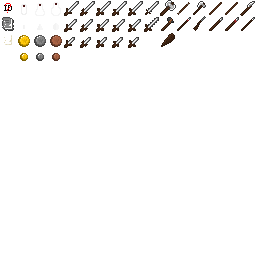
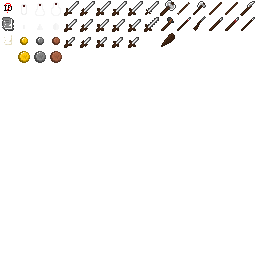
added the purse to the inventory: now money does not occupy any slot in the backpack

Changed region(s): [[0.0625, 0.125, 0.25, 0.25]]

diff --git a/src/program/program_Settings.cpp b/src/program/program_Settings.cpp
@@ -6,6 +6,7 @@
 
 #include "program.hpp"
 #include "funcs/files.hpp"
+#include "funcs/keys.hpp"
 
 #include <iostream>
 #include <iomanip>
@@ -17,36 +18,36 @@ namespace rr {
     void Settings::print() {
         std::cout << "+========PARAMETER========|===========VALUE===========+\n";
         std::cout << "+-------------------Game settings---------------------+\n";
-        std::cout << "|lang                     |" << game.language                        << std::setw(29-game.language.size())                                    << "|\n";
+        std::cout << "|lang                     |" << game.language                                   << std::setw(29-game.language                                       .size()) << "|\n";
         std::cout << "+-----------------Graphical settings------------------+\n";
-        std::cout << "|width                    |" << graphics.resolution.x                << std::setw(29-std::to_string(graphics.resolution.x)               .size()) << "|\n";
-        std::cout << "|height                   |" << graphics.resolution.y                << std::setw(29-std::to_string(graphics.resolution.y)               .size()) << "|\n";
-        std::cout << "|fullscreen               |" << graphics.fullscreen                  << std::setw(29-std::to_string(graphics.fullscreen)                 .size()) << "|\n";
-        std::cout << "|vsync                    |" << graphics.vsync                       << std::setw(29-std::to_string(graphics.vsync)                      .size()) << "|\n";
-        std::cout << "|antialiasing             |" << graphics.csettings.antialiasingLevel << std::setw(29-std::to_string(graphics.csettings.antialiasingLevel).size()) << "|\n";
-        std::cout << "|depth_bits               |" << graphics.csettings.depthBits         << std::setw(29-std::to_string(graphics.csettings.depthBits)        .size()) << "|\n";
-        std::cout << "|stencil_bits             |" << graphics.csettings.stencilBits       << std::setw(29-std::to_string(graphics.csettings.stencilBits)      .size()) << "|\n";
+        std::cout << "|width                    |" << graphics.resolution.x                           << std::setw(29-std::to_string(graphics.resolution.x)               .size()) << "|\n";
+        std::cout << "|height                   |" << graphics.resolution.y                           << std::setw(29-std::to_string(graphics.resolution.y)               .size()) << "|\n";
+        std::cout << "|fullscreen               |" << graphics.fullscreen                             << std::setw(29-std::to_string(graphics.fullscreen)                 .size()) << "|\n";
+        std::cout << "|vsync                    |" << graphics.vsync                                  << std::setw(29-std::to_string(graphics.vsync)                      .size()) << "|\n";
+        std::cout << "|antialiasing             |" << graphics.csettings.antialiasingLevel            << std::setw(29-std::to_string(graphics.csettings.antialiasingLevel).size()) << "|\n";
+        std::cout << "|depth_bits               |" << graphics.csettings.depthBits                    << std::setw(29-std::to_string(graphics.csettings.depthBits)        .size()) << "|\n";
+        std::cout << "|stencil_bits             |" << graphics.csettings.stencilBits                  << std::setw(29-std::to_string(graphics.csettings.stencilBits)      .size()) << "|\n";
         std::cout << "+-----------------------Audio-------------------------+\n";
-        std::cout << "|music_volume             |" << sound.music_volume                   << std::setw(29-std::to_string((int)sound.music_volume)             .size()) << "|\n";
-        std::cout << "|effects_volume           |" << sound.effects_volume                 << std::setw(29-std::to_string((int)sound.effects_volume)           .size()) << "|\n";
-        std::cout << "|music_muted              |" << sound.music_muted                    << std::setw(29-std::to_string(sound.music_muted)                   .size()) << "|\n";
-        std::cout << "|effects_muted            |" << sound.effects_muted                  << std::setw(29-std::to_string(sound.effects_muted)                 .size()) << "|\n";
+        std::cout << "|music_volume             |" << sound.music_volume                              << std::setw(29-std::to_string((int)sound.music_volume)             .size()) << "|\n";
+        std::cout << "|effects_volume           |" << sound.effects_volume                            << std::setw(29-std::to_string((int)sound.effects_volume)           .size()) << "|\n";
+        std::cout << "|music_muted              |" << sound.music_muted                               << std::setw(29-std::to_string(sound.music_muted)                   .size()) << "|\n";
+        std::cout << "|effects_muted            |" << sound.effects_muted                             << std::setw(29-std::to_string(sound.effects_muted)                 .size()) << "|\n";
         std::cout << "+----------------------Controls-----------------------+\n";
-        std::cout << "|move_up                  |" << keys.move_up                         << std::setw(29-std::to_string(keys.move_up)                        .size()) << "|\n";
-        std::cout << "|move_down                |" << keys.move_down                       << std::setw(29-std::to_string(keys.move_down)                      .size()) << "|\n";
-        std::cout << "|move_left                |" << keys.move_left                       << std::setw(29-std::to_string(keys.move_left)                      .size()) << "|\n";
-        std::cout << "|move_right               |" << keys.move_right                      << std::setw(29-std::to_string(keys.move_right)                     .size()) << "|\n";
-        std::cout << "|interact                 |" << keys.interact                        << std::setw(29-std::to_string(keys.interact)                       .size()) << "|\n";
-        std::cout << "|attack                   |" << keys.attack                          << std::setw(29-std::to_string(keys.attack)                         .size()) << "|\n";
-        std::cout << "|open_inventory           |" << keys.open_inventory                  << std::setw(29-std::to_string(keys.open_inventory)                 .size()) << "|\n";
-        std::cout << "|open_attributes          |" << keys.open_attributes                 << std::setw(29-std::to_string(keys.open_attributes)                .size()) << "|\n";
-        std::cout << "|open_quests              |" << keys.open_quests                     << std::setw(29-std::to_string(keys.open_quests)                    .size()) << "|\n";
-        std::cout << "|open_map                 |" << keys.open_map                        << std::setw(29-std::to_string(keys.open_map)                       .size()) << "|\n";
-        std::cout << "|useslot_1                |" << keys.useslot_1                       << std::setw(29-std::to_string(keys.useslot_1)                      .size()) << "|\n";
-        std::cout << "|useslot_2                |" << keys.useslot_2                       << std::setw(29-std::to_string(keys.useslot_2)                      .size()) << "|\n";
-        std::cout << "|useslot_3                |" << keys.useslot_3                       << std::setw(29-std::to_string(keys.useslot_3)                      .size()) << "|\n";
-        std::cout << "|useslot_4                |" << keys.useslot_4                       << std::setw(29-std::to_string(keys.useslot_4)                      .size()) << "|\n";
-        std::cout << "|useslot_5                |" << keys.useslot_5                       << std::setw(29-std::to_string(keys.useslot_5)                      .size()) << "|\n";
+        std::cout << "|move_up                  |" << getKeyName(keys.move_up)        .toAnsiString() << std::setw(29-getKeyName(keys.move_up)        .toAnsiString()     .size()) << "|\n";
+        std::cout << "|move_down                |" << getKeyName(keys.move_down)      .toAnsiString() << std::setw(29-getKeyName(keys.move_down)      .toAnsiString()     .size()) << "|\n";
+        std::cout << "|move_left                |" << getKeyName(keys.move_left)      .toAnsiString() << std::setw(29-getKeyName(keys.move_left)      .toAnsiString()     .size()) << "|\n";
+        std::cout << "|move_right               |" << getKeyName(keys.move_right)     .toAnsiString() << std::setw(29-getKeyName(keys.move_right)     .toAnsiString()     .size()) << "|\n";
+        std::cout << "|interact                 |" << getKeyName(keys.interact)       .toAnsiString() << std::setw(29-getKeyName(keys.interact)       .toAnsiString()     .size()) << "|\n";
+        std::cout << "|attack                   |" << getKeyName(keys.attack)         .toAnsiString() << std::setw(29-getKeyName(keys.attack)         .toAnsiString()     .size()) << "|\n";
+        std::cout << "|open_inventory           |" << getKeyName(keys.open_inventory) .toAnsiString() << std::setw(29-getKeyName(keys.open_inventory) .toAnsiString()     .size()) << "|\n";
+        std::cout << "|open_attributes          |" << getKeyName(keys.open_attributes).toAnsiString() << std::setw(29-getKeyName(keys.open_attributes).toAnsiString()     .size()) << "|\n";
+        std::cout << "|open_quests              |" << getKeyName(keys.open_quests)    .toAnsiString() << std::setw(29-getKeyName(keys.open_quests)    .toAnsiString()     .size()) << "|\n";
+        std::cout << "|open_map                 |" << getKeyName(keys.open_map)       .toAnsiString() << std::setw(29-getKeyName(keys.open_map)       .toAnsiString()     .size()) << "|\n";
+        std::cout << "|useslot_1                |" << getKeyName(keys.useslot_1)      .toAnsiString() << std::setw(29-getKeyName(keys.useslot_1)      .toAnsiString()     .size()) << "|\n";
+        std::cout << "|useslot_2                |" << getKeyName(keys.useslot_2)      .toAnsiString() << std::setw(29-getKeyName(keys.useslot_2)      .toAnsiString()     .size()) << "|\n";
+        std::cout << "|useslot_3                |" << getKeyName(keys.useslot_3)      .toAnsiString() << std::setw(29-getKeyName(keys.useslot_3)      .toAnsiString()     .size()) << "|\n";
+        std::cout << "|useslot_4                |" << getKeyName(keys.useslot_4)      .toAnsiString() << std::setw(29-getKeyName(keys.useslot_4)      .toAnsiString()     .size()) << "|\n";
+        std::cout << "|useslot_5                |" << getKeyName(keys.useslot_5)      .toAnsiString() << std::setw(29-getKeyName(keys.useslot_5)      .toAnsiString()     .size()) << "|\n";
         std::cout << "+-----------------------------------------------------+\n";
     }
 

diff --git a/src/program/game/menus/menus_Inventory.cpp b/src/program/game/menus/menus_Inventory.cpp
@@ -13,6 +13,10 @@ extern rr::Resources resources;
 namespace rr {
 
     Inventory::Inventory() {
+        bronze_ = 0;
+        silver_ = 0;
+        gold_   = 0;
+
         shadow_.setSize((sf::Vector2f)settings.graphics.resolution);
         shadow_.setPosition(sf::Vector2f(0, 0));
         shadow_.setFillColor(sf::Color(0, 0, 0, 172));
@@ -25,6 +29,12 @@ namespace rr {
                     *wInve_ += new Slot(sf::Vector2f(80, 80), sf::Vector2f(10+j*95, 30+i*95));
                 }
             }
+            *wInve_ += new Image (sf::Vector2f(0  , 390), resources.texture.items, 16, 33);
+            *wInve_ += new Image (sf::Vector2f(150, 390), resources.texture.items, 16, 34);
+            *wInve_ += new Image (sf::Vector2f(300, 390), resources.texture.items, 16, 35);
+            *wInve_ += new Text  (sf::Vector2f(70 , 415), "GOLD", resources.font.Pixel, 30);
+            *wInve_ += new Text  (sf::Vector2f(220, 415), "SILV", resources.font.Pixel, 30);
+            *wInve_ += new Text  (sf::Vector2f(370, 415), "BRON", resources.font.Pixel, 30);
             *wInve_ += new Button(sf::Vector2f(0, 0), resources.dictionary["gui.button.quit"], 30);
             component(wInve_, Button, 0)->setPosition(sf::Vector2f(wInve_->getPosition().x+wInve_->getSize().x-component(wInve_, Button, 0)->getSize().x-15, settings.graphics.resolution.y/2+235-component(wInve_, Button, 0)->getSize().y-5));
         wInve_->setVisible(false);
@@ -38,6 +48,10 @@ namespace rr {
     }
 
     void Inventory::open() {
+        wInve_->getComponent<Text>(0)->setString(std::to_string((int)gold_));
+        wInve_->getComponent<Text>(1)->setString(std::to_string((int)silver_));
+        wInve_->getComponent<Text>(2)->setString(std::to_string((int)bronze_));
+
         wInve_->setVisible(true);
     }
 
@@ -76,7 +90,41 @@ namespace rr {
 
 #define slot(i) wInve_->getComponent<Slot>(i)
 
-     // first we check if any of the slots already contains the item we want to add
+     // in the beginning we check if the picked item is a coin
+        if (instanceof<Coin, Item>(item)) {
+         // first we recognize the coin type and size
+            if (((Coin*)item)->type_ == Coin::BRONZE) {
+                if (((Coin*)item)->size_ == Coin::BIG)
+                    bronze_ += item->getAmount()*10;
+                else
+                    bronze_ += item->getAmount();
+            }
+            else if (((Coin*)item)->type_ == Coin::SILVER) {
+                if (((Coin*)item)->size_ == Coin::BIG)
+                    silver_ += item->getAmount()*10;
+                else
+                    silver_ += item->getAmount();
+            }
+            else if (((Coin*)item)->type_ == Coin::GOLDEN) {
+                if (((Coin*)item)->size_ == Coin::BIG)
+                    gold_ += item->getAmount()*10;
+                else
+                    gold_ += item->getAmount();
+            }
+         // then we do the simple calculations: 1 gold = 100 silver, 1 silver = 100 bronze
+            while (bronze_ >= 100) {
+                bronze_ -= 100;
+                silver_++;
+            }
+            while (silver_ >= 100) {
+                silver_ -= 100;
+                gold_++;
+            }
+         // and in the end we can just
+            return true;
+        }
+
+     // then we check if any of the slots already contains the item we want to add
         for (int it=0; it<32; it++) {
             if (!slot(it)->isEmpty() && slot(it)->getItem()->getID() == item->getID()) {
                 return slot(it)->addItem(item->getID(), item->getAmount());

diff --git a/src/program/game/menus/menus_Attributes.cpp b/src/program/game/menus/menus_Attributes.cpp
@@ -61,11 +61,14 @@ namespace rr {
                                              +std::to_string((int)p->getAttributes().level      )                                                      +"\n"
                                              +std::to_string((int)p->getAttributes().skillPoints));
 
-        component(wAttr_, Text, 2)->setString((p->getAttributes().crafting              ? resources.dictionary["player.skills.crafting"]               : sf::String("-"))
-                                       +"\n"+(p->getAttributes().alchemy                ? resources.dictionary["player.skills.alchemy"]                : sf::String("-"))
-                                       +"\n"+(p->getAttributes().cold_weapon_mastery    ? resources.dictionary["player.skills.cold_weapon_mastery"]    : sf::String("-"))
-                                       +"\n"+(p->getAttributes().ranged_weapon_mastery  ? resources.dictionary["player.skills.ranged_weapon_mastery"]  : sf::String("-"))
-                                       +"\n"+(p->getAttributes().better_sight           ? resources.dictionary["player.skills.better_sight"]           : sf::String("-")));
+        component(wAttr_, Text, 2)->setString((p->getAttributes().crafting               ? resources.dictionary["player.skills.crafting"             ] : sf::String("-"))
+                                        +"\n"+(p->getAttributes().alchemy                ? resources.dictionary["player.skills.alchemy"              ] : sf::String("-"))
+                                        +"\n"+(p->getAttributes().cold_weapon_mastery    ? resources.dictionary["player.skills.cold_weapon_mastery"  ] : sf::String("-"))
+                                        +"\n"+(p->getAttributes().ranged_weapon_mastery  ? resources.dictionary["player.skills.ranged_weapon_mastery"] : sf::String("-"))
+                                        +"\n"+(p->getAttributes().eagle_eye              ? resources.dictionary["player.skills.better_sight"         ] : sf::String("-"))
+                                        +"\n"+(p->getAttributes().mana_regeneration      ? resources.dictionary["player.skills.mana_regen"           ] : sf::String("-"))
+                                        +"\n"+(p->getAttributes().health_regeneration    ? resources.dictionary["player.skills.health_regen"         ] : sf::String("-"))
+                                        +"\n"+(p->getAttributes().faster_learning        ? resources.dictionary["player.skills.faster_learn"         ] : sf::String("-")));
 
 #undef component
 

diff --git a/src/program/game/entities/player/player_Player.cpp b/src/program/game/entities/player/player_Player.cpp
@@ -42,7 +42,10 @@ namespace rr {
         attrs_.alchemy               = false;
         attrs_.cold_weapon_mastery   = false;
         attrs_.ranged_weapon_mastery = false;
-        attrs_.better_sight          = false;
+        attrs_.eagle_eye             = false;
+        attrs_.mana_regeneration     = false;
+        attrs_.health_regeneration   = false;
+        attrs_.faster_learning       = false;
 
         moving_ = false;
     }
@@ -114,18 +117,19 @@ namespace rr {
         if (attrs_.health <= 0)                attrs_.health = 0;
         if (attrs_.mana   <= 0)                attrs_.mana   = 0;
         if (attrs_.mana   >= attrs_.maxMana)   attrs_.mana   = attrs_.maxMana;
-        if (attrs_.experience >= attrs_.nextLevel) {
-            attrs_.experience  = 0;
-            attrs_.nextLevel  *= 1.25f;
-            attrs_.level      ++;
+        if (attrs_.experience  >= attrs_.nextLevel) {
+            attrs_.experience   = 0;
+            attrs_.nextLevel   *= 1.25f;
+            attrs_.level       ++;
+            attrs_.skillPoints += (attrs_.faster_learning) ? 15 : 10;
 
-            float temp         = attrs_.health/attrs_.maxHealth;
-            attrs_.maxHealth  += 10;
-            attrs_.health      = temp*attrs_.maxHealth;
+            float temp          = attrs_.health/attrs_.maxHealth;
+            attrs_.maxHealth   += 10;
+            attrs_.health       = temp*attrs_.maxHealth;
 
-            temp               = attrs_.mana/attrs_.maxMana;
-            attrs_.maxMana    += 1;
-            attrs_.mana        = temp*attrs_.maxMana;
+            temp                = attrs_.mana/attrs_.maxMana;
+            attrs_.maxMana     += 1;
+            attrs_.mana         = temp*attrs_.maxMana;
         }
         body_.play(*currentAnimation_);
     }

diff --git a/src/program/funcs/items.hpp b/src/program/funcs/items.hpp
@@ -25,9 +25,15 @@ namespace rr {
         case   6: return new Coin  (Coin::BRONZE                , Coin::BIG           , amount, sf::Vector2i(0, 0));
 
         /* BOOKS */
-        case  10: return new Book  (Book::MANA_REGEN                                  , amount, sf::Vector2i(0, 0));
-        case  11: return new Book  (Book::FASTER_LEARNING                             , amount, sf::Vector2i(0, 0));
-        case  12: return new Book  (Book::SPELLS_LEARNING                             , amount, sf::Vector2i(0, 0));
+        case  10: return new Book  (Book::CRAFTING                                    , amount, sf::Vector2i(0, 0));
+        case  11: return new Book  (Book::ALCHEMY                                     , amount, sf::Vector2i(0, 0));
+        case  12: return new Book  (Book::COLD_WEAPON_MASTERY                         , amount, sf::Vector2i(0, 0));
+        case  13: return new Book  (Book::RANGED_WEAPON_MASTER                        , amount, sf::Vector2i(0, 0));
+        case  14: return new Book  (Book::EAGLE_EYE                                   , amount, sf::Vector2i(0, 0));
+        case  15: return new Book  (Book::MANA_REGEN                                  , amount, sf::Vector2i(0, 0));
+        case  16: return new Book  (Book::HEALTH_REGEN                                , amount, sf::Vector2i(0, 0));
+        case  17: return new Book  (Book::FASTER_LEARNING                             , amount, sf::Vector2i(0, 0));
+        case  18: return new Book  (Book::SPELLS_BOOK                                 , amount, sf::Vector2i(0, 0));
 
         /* POTIONS */
         case 100: return new Potion(Potion::Effect::HEALING     , Potion::Size::SMALL , amount, sf::Vector2i(0, 0));

diff --git a/src/program/gui/gui_Slot.cpp b/src/program/gui/gui_Slot.cpp
@@ -23,7 +23,7 @@ namespace rr {
         body_.setOutlineThickness(5);
 
         image_    = new Image(pos, resources.texture.gui, 14, icon);
-        text_     = new Text (sf::Vector2f(pos.x+5, pos.y+55), "", resources.font.Pixel, 202);
+        text_     = new Text (sf::Vector2f(pos.x+5, pos.y+55), "", resources.font.Pixel, 20);
 
         image_   ->setParentComponent(this);
         text_    ->setParentComponent(this);
@@ -58,7 +58,6 @@ namespace rr {
             if (id == item_->getID()) {
                 item_->setAmount(item_->getAmount()+amount);
                 text_->setString(std::to_wstring(item_->getAmount()));
-                text_->setCharacterSize(20);
                 return true;
             }
             return false;
@@ -66,7 +65,6 @@ namespace rr {
         item_ = getItemFromID(id, amount);
         item_->setRealPosition(body_.getPosition());
         text_->setString(std::to_string(item_->getAmount()));
-        text_->setCharacterSize(20);
 
         hollow_ = false;
         return true;

diff --git a/src/program/game/menus/menus_MainMenu.cpp b/src/program/game/menus/menus_MainMenu.cpp
@@ -171,7 +171,7 @@ namespace rr {
                     component(wCont, Button, 15)->setPosition(sf::Vector2f(wCont->getPosition().x+wCont->getSize().x/2-component(wCont, Button, 15)->getSize().x/2,
                                                                            wCont->getPosition().y+wCont->getSize().y  -component(wCont, Button, 15)->getSize().y-10));
 
-                    wCont->addComponent(new Window("", sf::Vector2f(310, 50), (sf::Vector2f)(settings.graphics.resolution/2u-sf::Vector2u(155, 430)), sf::Color::Red), false);
+                    wCont->addComponent(new Window("", sf::Vector2f(310, 50), (sf::Vector2f)(settings.graphics.resolution/2u+sf::Vector2u(-155, 290)), sf::Color::Red), false);
 
 #define wWait component(wCont, Window, 0)
 

diff --git a/src/program/game/level_Level.cpp b/src/program/game/level_Level.cpp
@@ -469,8 +469,8 @@ namespace rr {
             while (true) {
                 int x=rand()%size_.x, y=rand()%size_.y;
                 if (tiles_[x][y] == ROOM && tiles_[x][y] != OCCUPIED) {
-                    // here we choose randomly the type of a coin
-                    addEntity(getItemFromID(rand()%3+10, 1), sf::Vector2i(x, y));
+                    // here we choose randomly the type of a book
+                    addEntity(getItemFromID(rand()%9+10, 1), sf::Vector2i(x, y));
                     tiles_[x][y] = OCCUPIED;
                     break;
                 }

diff --git a/src/program/game/entities/item/item_Book.hpp b/src/program/game/entities/item/item_Book.hpp
@@ -14,9 +14,15 @@ namespace rr {
     class Book : public Discoverable, public Item {
     public:
         enum Type {
+            CRAFTING,
+            ALCHEMY,
+            COLD_WEAPON_MASTERY,
+            RANGED_WEAPON_MASTER,
+            EAGLE_EYE,
             MANA_REGEN,
+            HEALTH_REGEN,
             FASTER_LEARNING,
-            SPELLS_LEARNING
+            SPELLS_BOOK
         } type_;
          Book(Type, int am, sf::Vector2i pos);
         ~Book();

diff --git a/src/program/game/entities/player/player.hpp b/src/program/game/entities/player/player.hpp
@@ -37,7 +37,10 @@ namespace rr {
             bool  alchemy;
             bool  cold_weapon_mastery;
             bool  ranged_weapon_mastery;
-            bool  better_sight;
+            bool  eagle_eye;
+            bool  mana_regeneration;
+            bool  health_regeneration;
+            bool  faster_learning;
         } attrs_;
 
         sf::Vector2i       position_;

diff --git a/src/program/game/menus/menus.hpp b/src/program/game/menus/menus.hpp
@@ -90,6 +90,9 @@ namespace rr {
     private:
         sf::RectangleShape shadow_;
         Window*            wInve_;
+        short              bronze_;
+        short              silver_;
+        short              gold_;
     public:
          Inventory();
         ~Inventory();
